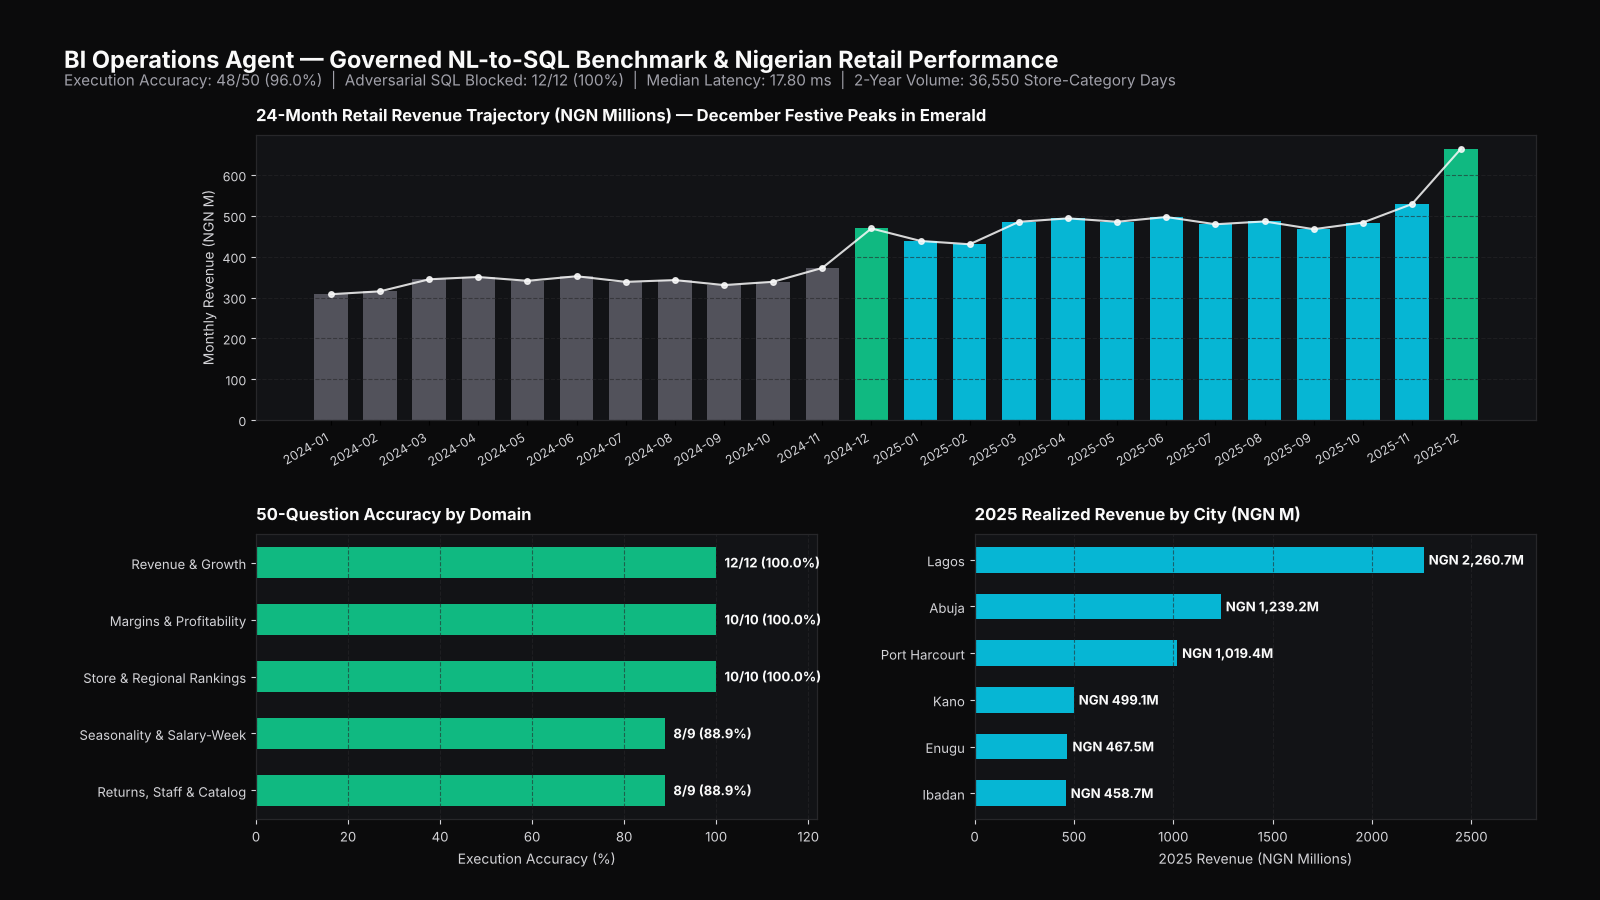
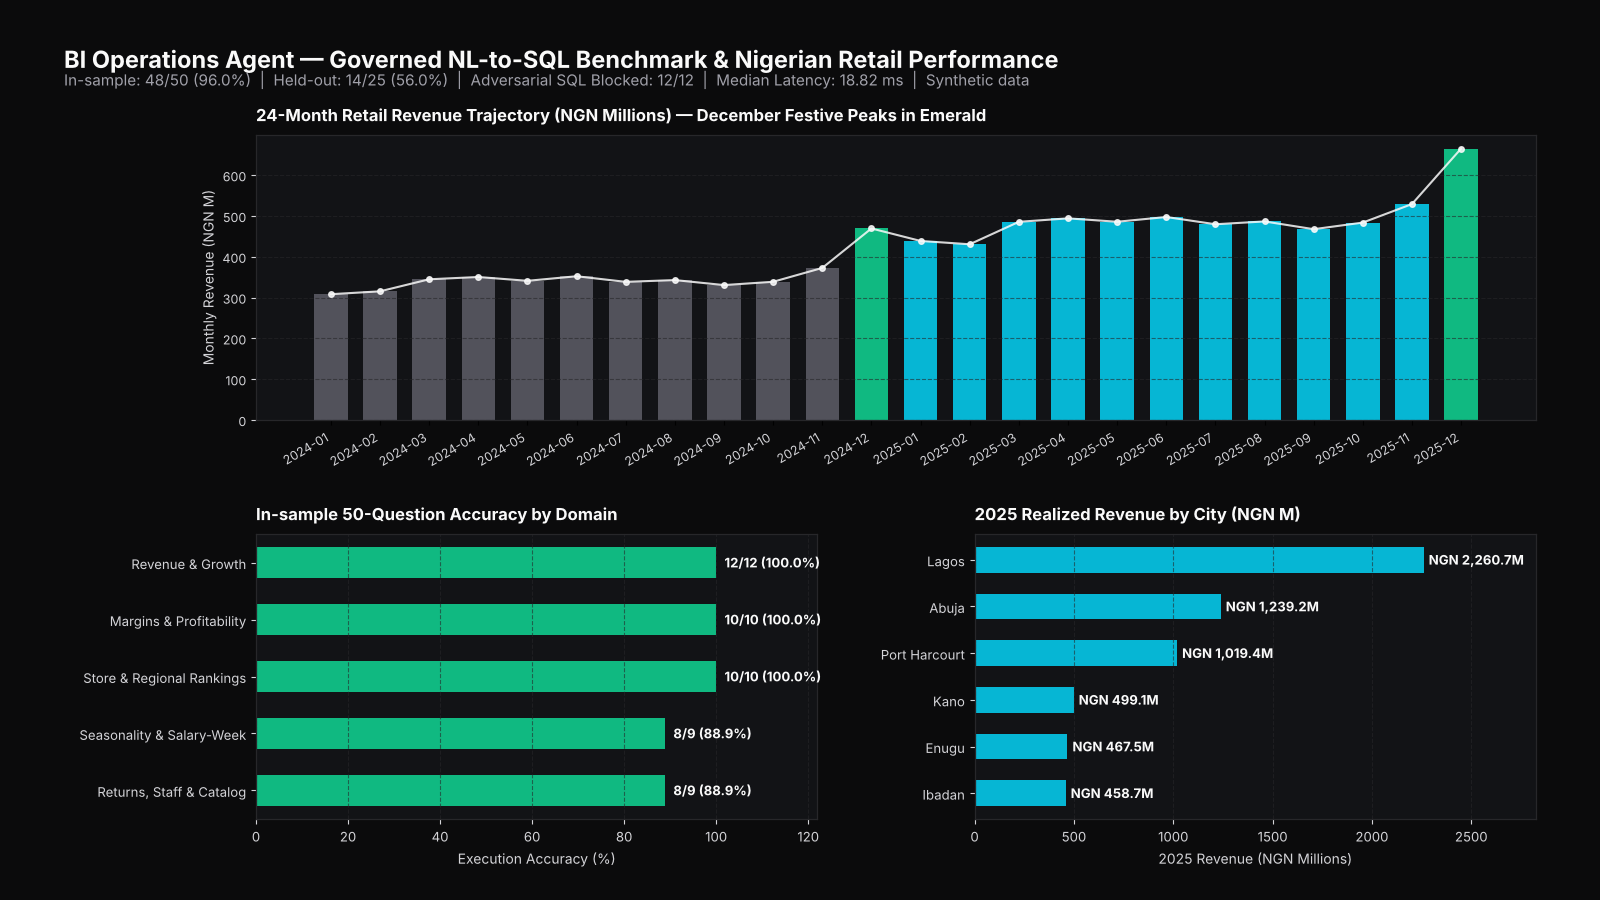
fix(reports): regenerate eval reports from the current engine; hero chart shows held-out
reports/*.json were last generated before de0a10f ("I don't understand"),
so held-out H15/H19/H23 still showed the old guessed SQL. Accuracy numbers
are unchanged (48/50, 14/25, 12/12, 0 unsafe); only those three rows and
latency (machine-dependent) differ. The hero chart subtitle now shows the
held-out score next to the in-sample one and says the data is synthetic.

Claude-Session: https://claude.ai/code/session_01W9kMGUZd8hbToUsMNzQsYj

Changed region(s): [[0.0312, 0.0622, 0.7188, 0.0933], [0.1562, 0.56, 0.375, 0.5911]]

diff --git a/src/bi_agent/evaluate.py b/src/bi_agent/evaluate.py
@@ -731,10 +731,12 @@ def generate_charts(
     fig.text(
         0.04,
         0.905,
-        f"Execution Accuracy: {eval_summary['questions_correct']}/{eval_summary['questions_total']} "
+        f"In-sample: {eval_summary['questions_correct']}/{eval_summary['questions_total']} "
         f"({eval_summary['execution_accuracy']*100:.1f}%)  |  "
-        f"Adversarial SQL Blocked: {eval_summary['adversarial_prompts_blocked']}/{eval_summary['adversarial_prompts_total']} (100%)  |  "
-        f"Median Latency: {eval_summary['median_latency_ms']:.2f} ms  |  2-Year Volume: 36,550 Store-Category Days",
+        f"Held-out: {eval_summary['heldout']['questions_correct']}/{eval_summary['heldout']['questions_total']} "
+        f"({eval_summary['heldout']['execution_accuracy_pct']:.1f}%)  |  "
+        f"Adversarial SQL Blocked: {eval_summary['adversarial_prompts_blocked']}/{eval_summary['adversarial_prompts_total']}  |  "
+        f"Median Latency: {eval_summary['median_latency_ms']:.2f} ms  |  Synthetic data",
         color="#A1A1AA",
         fontsize=11,
     )
@@ -769,7 +771,7 @@ def generate_charts(
     ax2.set_xlim(0, 122)
     ax2.tick_params(axis="both", colors="#D4D4D8", labelsize=9.5)
     ax2.set_xlabel("Execution Accuracy (%)", color="#D4D4D8", fontsize=10)
-    ax2.set_title("50-Question Accuracy by Domain", color="#FAFAFA", fontsize=12, fontweight="bold", loc="left", pad=10)
+    ax2.set_title("In-sample 50-Question Accuracy by Domain", color="#FAFAFA", fontsize=12, fontweight="bold", loc="left", pad=10)
     ax2.grid(axis="x", color="#27272A", linestyle="--", alpha=0.6)
     for bar, lbl in zip(bars, dom_labels):
         ax2.text(bar.get_width() + 1.8, bar.get_y() + bar.get_height() / 2, lbl, va="center", color="#FAFAFA", fontsize=9.5, fontweight="bold")
